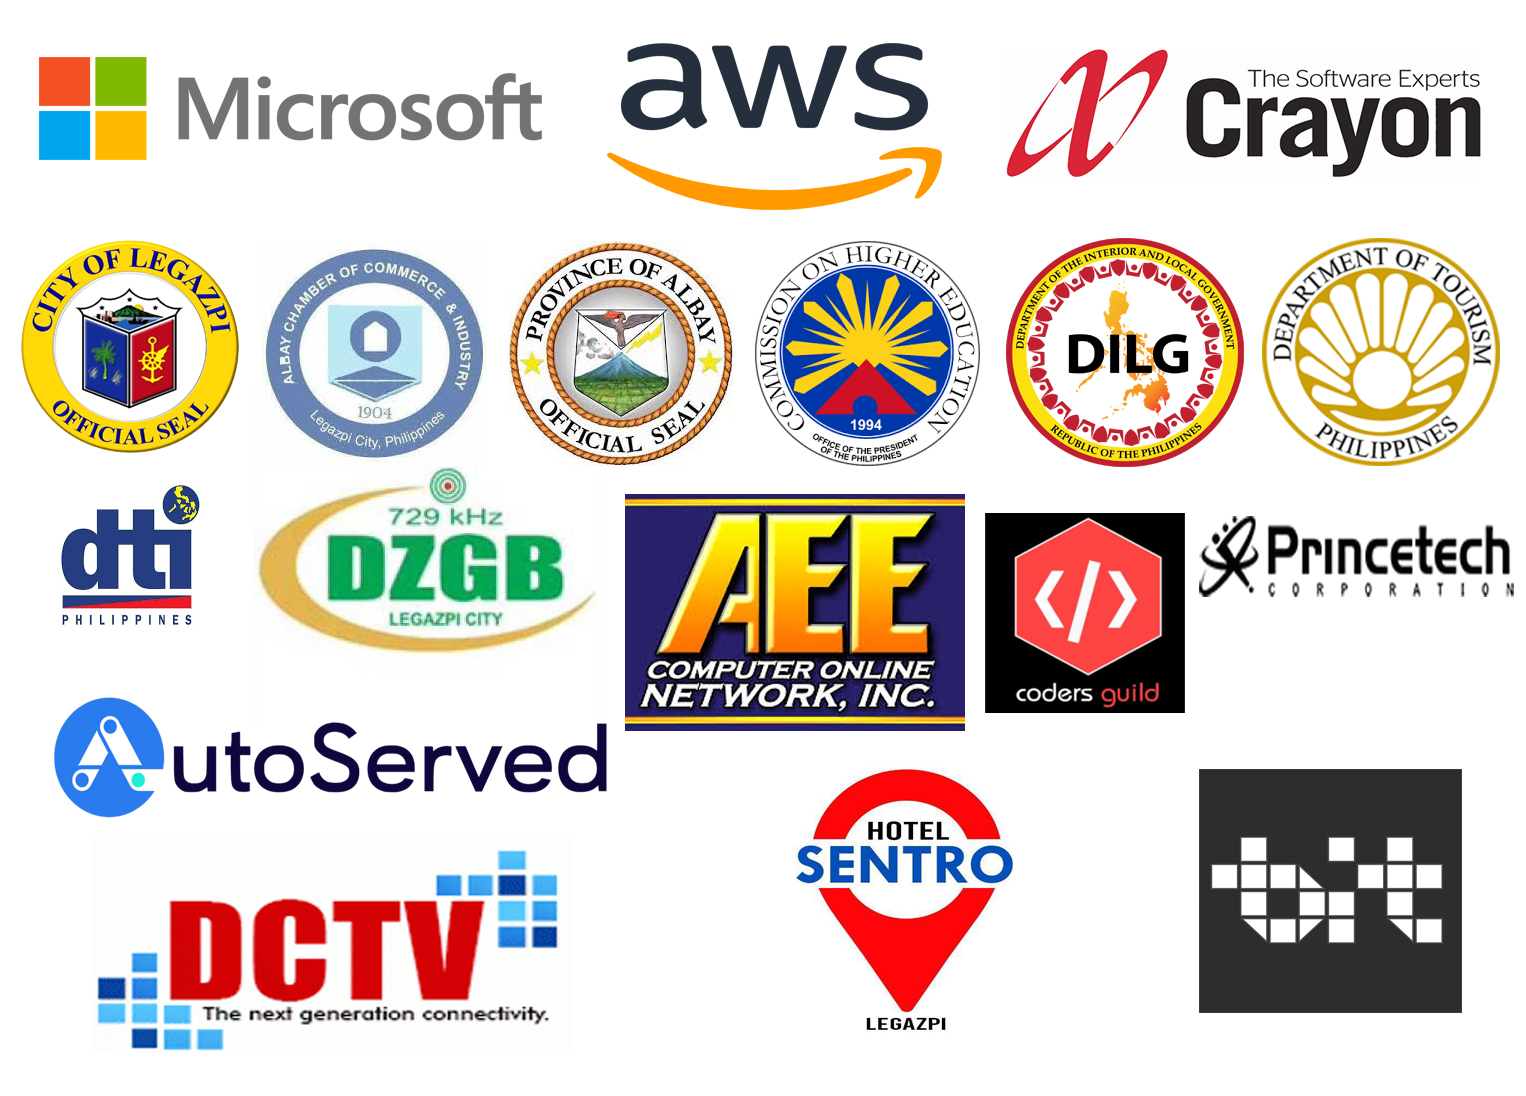
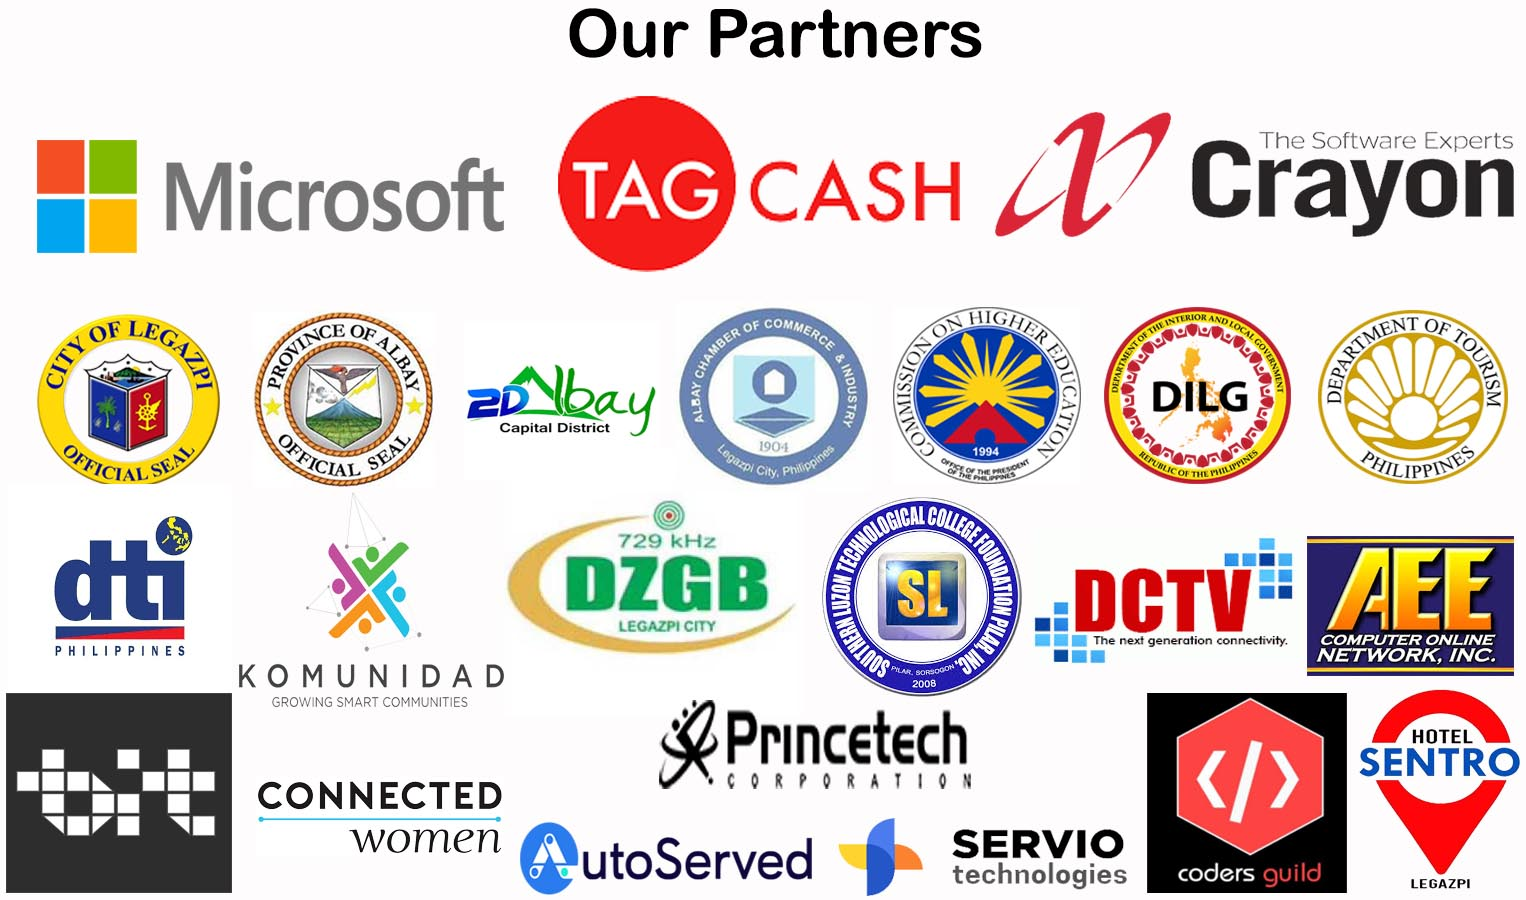
out AWS

diff --git a/index.html b/index.html
@@ -93,7 +93,7 @@
 				        <li><a href="#mu-schedule">Schedule</a></li>
 			            <li><a href="#mu-speakers">Speakers</a></li>
 			            <li><a href="#mu-venue">Venue</a></li>
-			            <li><a href="#mu-sponsors">Sponsors</a></li>
+			            <li><a href="#mu-sponsors">Partners</a></li>
 			            <li><a href="#mu-contact">Contact</a></li>
 			      	</ul>
 			    </div><!-- /.navbar-collapse -->
@@ -346,15 +346,13 @@ aria-hidden="true">
 														
 								    			</div>
 											</li>
-											<li>
-								    			
+											
+												<li>
 													<div class="mu-single-event">
-														<img src="assets/images/kom1.jpg" alt="event speaker">
-														<p class="mu-event-time">11.30 AM</p>
-														<h3>Topic: IoT for Good (Solutions with Social Impact)</h3>
-														<STRONG><span>komunidad</span>
-														<span ></span></STRONG>
-															
+														<img src="assets/images/tag.png" alt="event speaker">
+														<p class="mu-event-time">11.30 PM</p>
+														<h3>Cashless Philippines</h3>
+														<span>TAG Cash</span>
 													</div>
 												</li>
 											<li>
@@ -368,14 +366,20 @@ aria-hidden="true">
 								    </div>
 								    <div role="tabpanel" class="tab-pane fade mu-event-timeline" id="second-day">
 								    	<ul>
-								    		<li>
-								    			<div class="mu-single-event">
-								    				<img src="assets/images/tag.png" alt="event speaker">
-								    				<p class="mu-event-time">1.00 PM</p>
-								    				<h3>Cashless Philippines</h3>
-													<span>TAG Cash</span>
-								    			</div>
+											
+											<li>
+								    			
+												<div class="mu-single-event">
+													<img src="assets/images/kom1.jpg" alt="event speaker">
+													<p class="mu-event-time">1.00 AM</p>
+													<h3>Topic: IoT for Good (Solutions with Social Impact)</h3>
+													<STRONG><span>komunidad</span>
+													<span ></span></STRONG>
+														
+												</div>
 											</li>
+
+
 											<li>
 								    			<div class="mu-single-event">
 								    				<img src="assets/images/crayon.png" alt="event speaker">
@@ -535,10 +539,7 @@ aria-hidden="true">
 					<div class="col-md-12">
 						<div class="mu-sponsors-area">
 							
-							<div class="mu-title-area">
-								<h2 class="mu-title">Our Partners</h2>
 							
-							</div>
 							
 							<!-- Start spnonsors brand logo -->
 							<div class="mu-sponsors-content">
